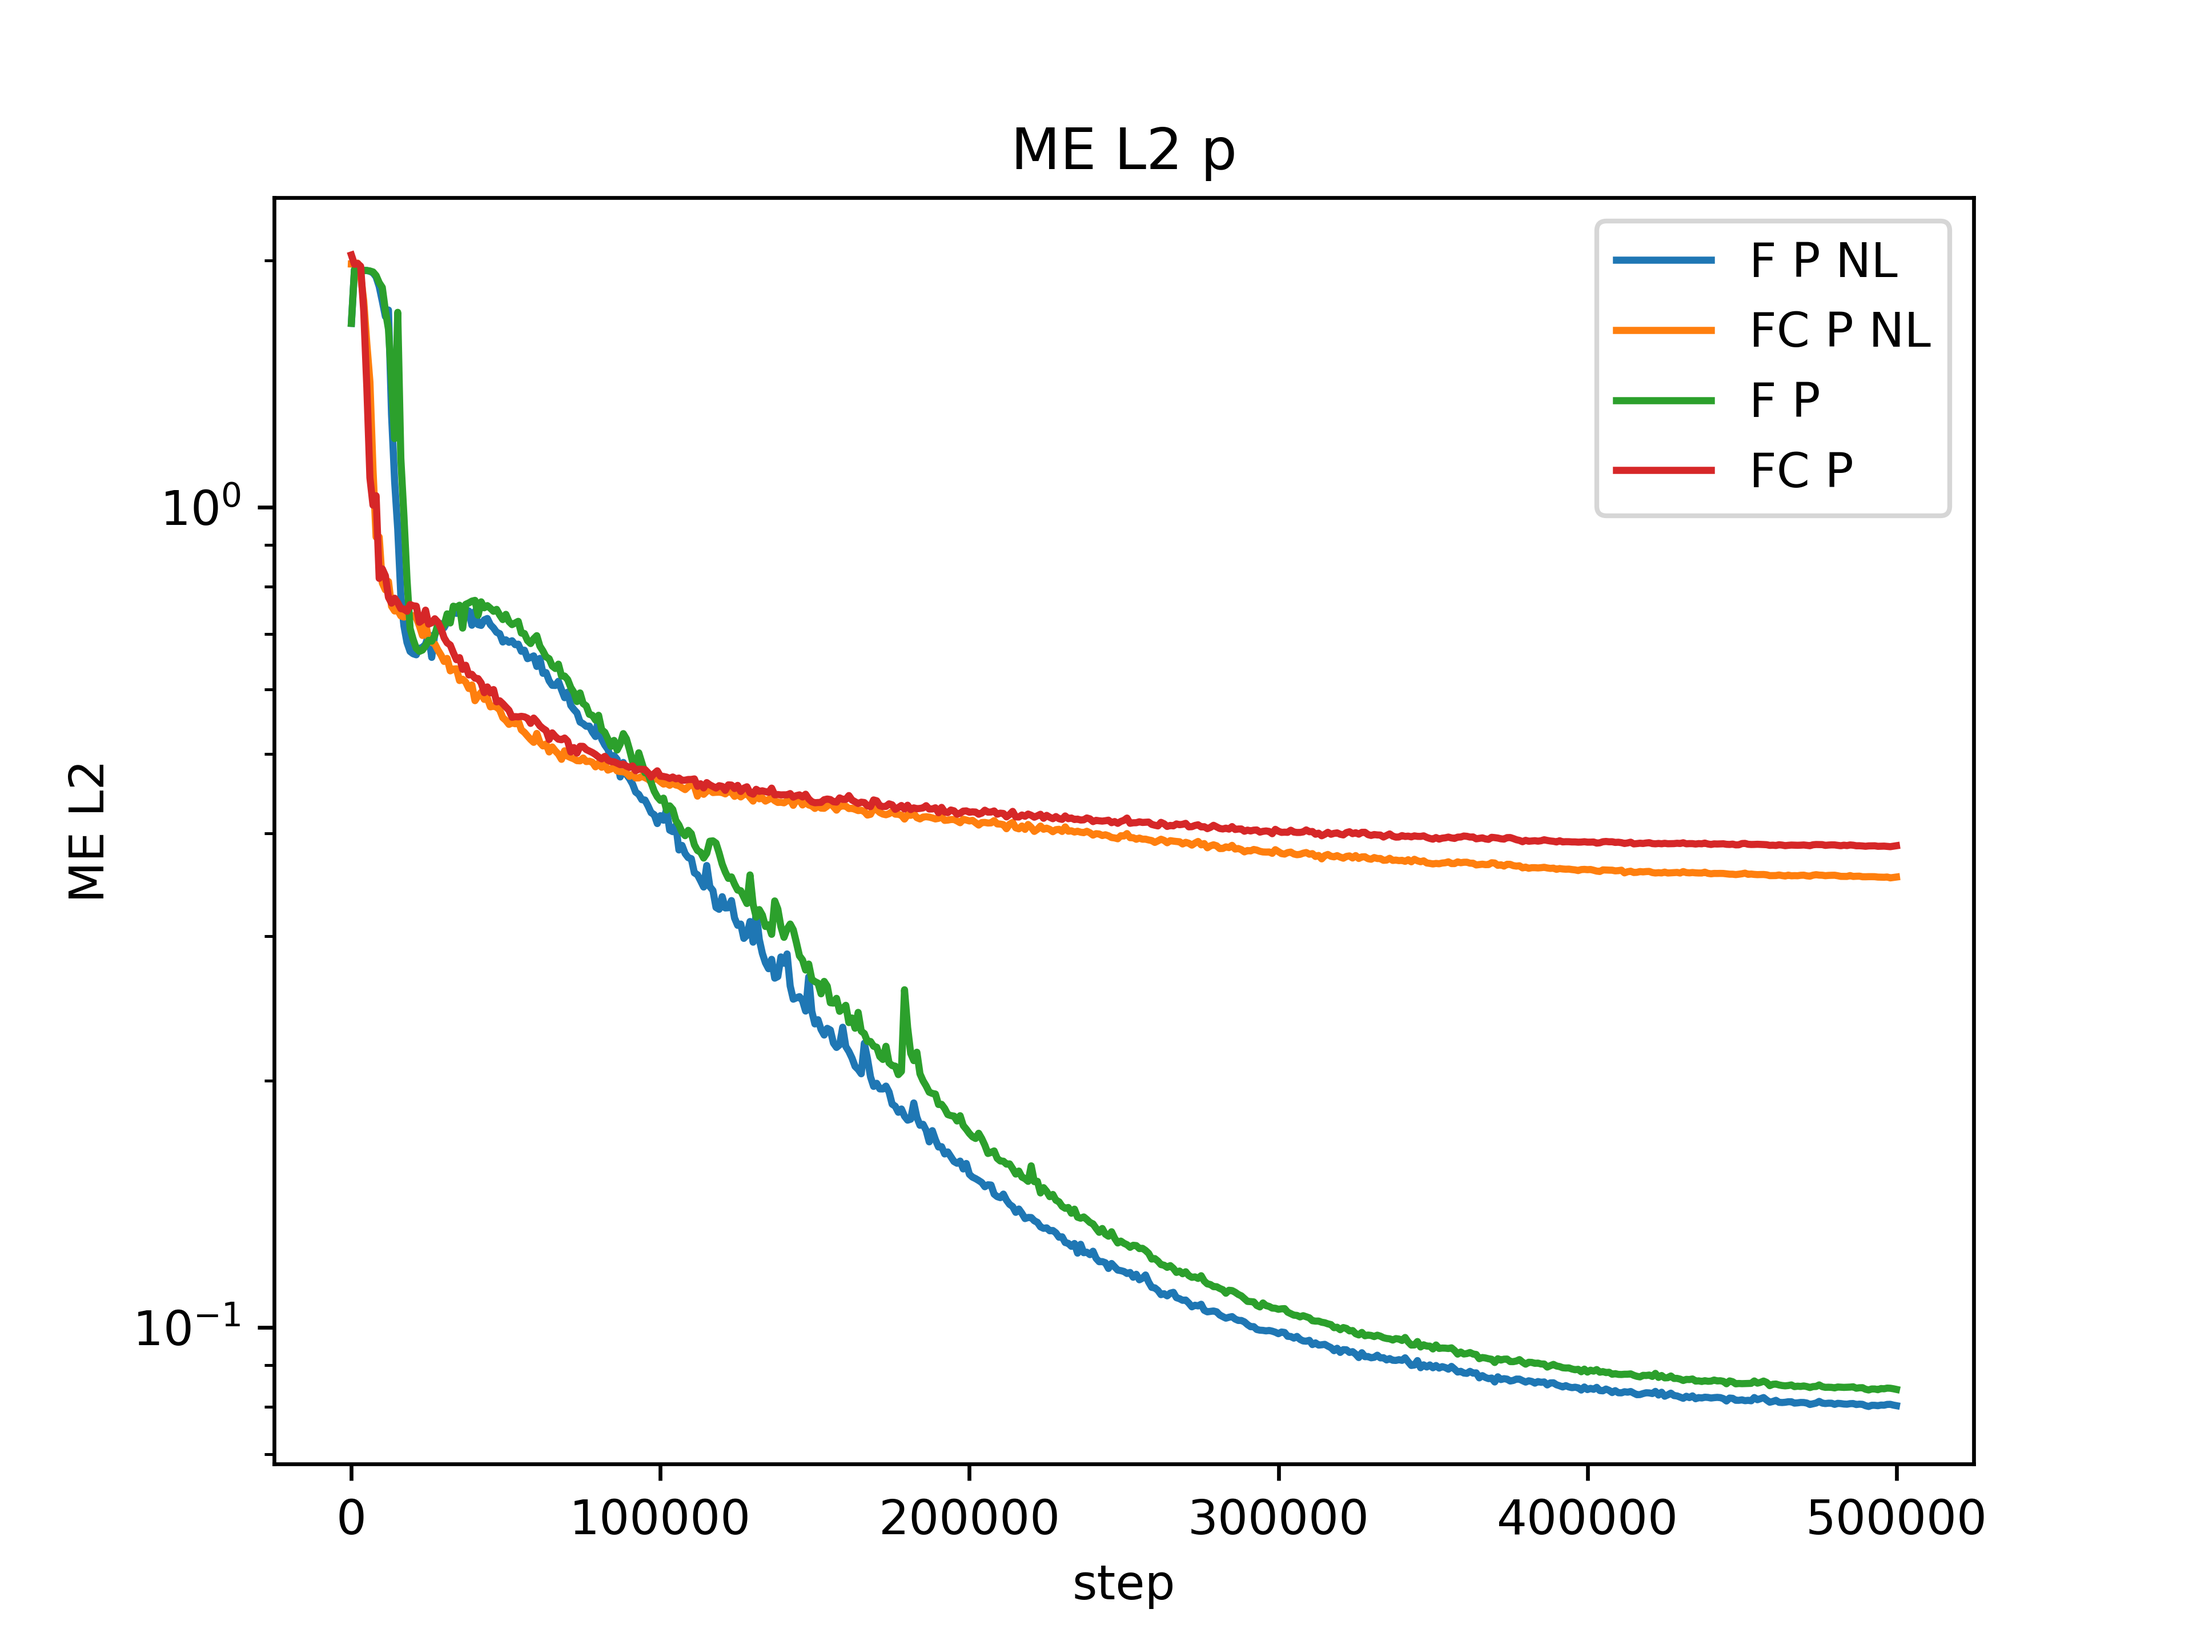
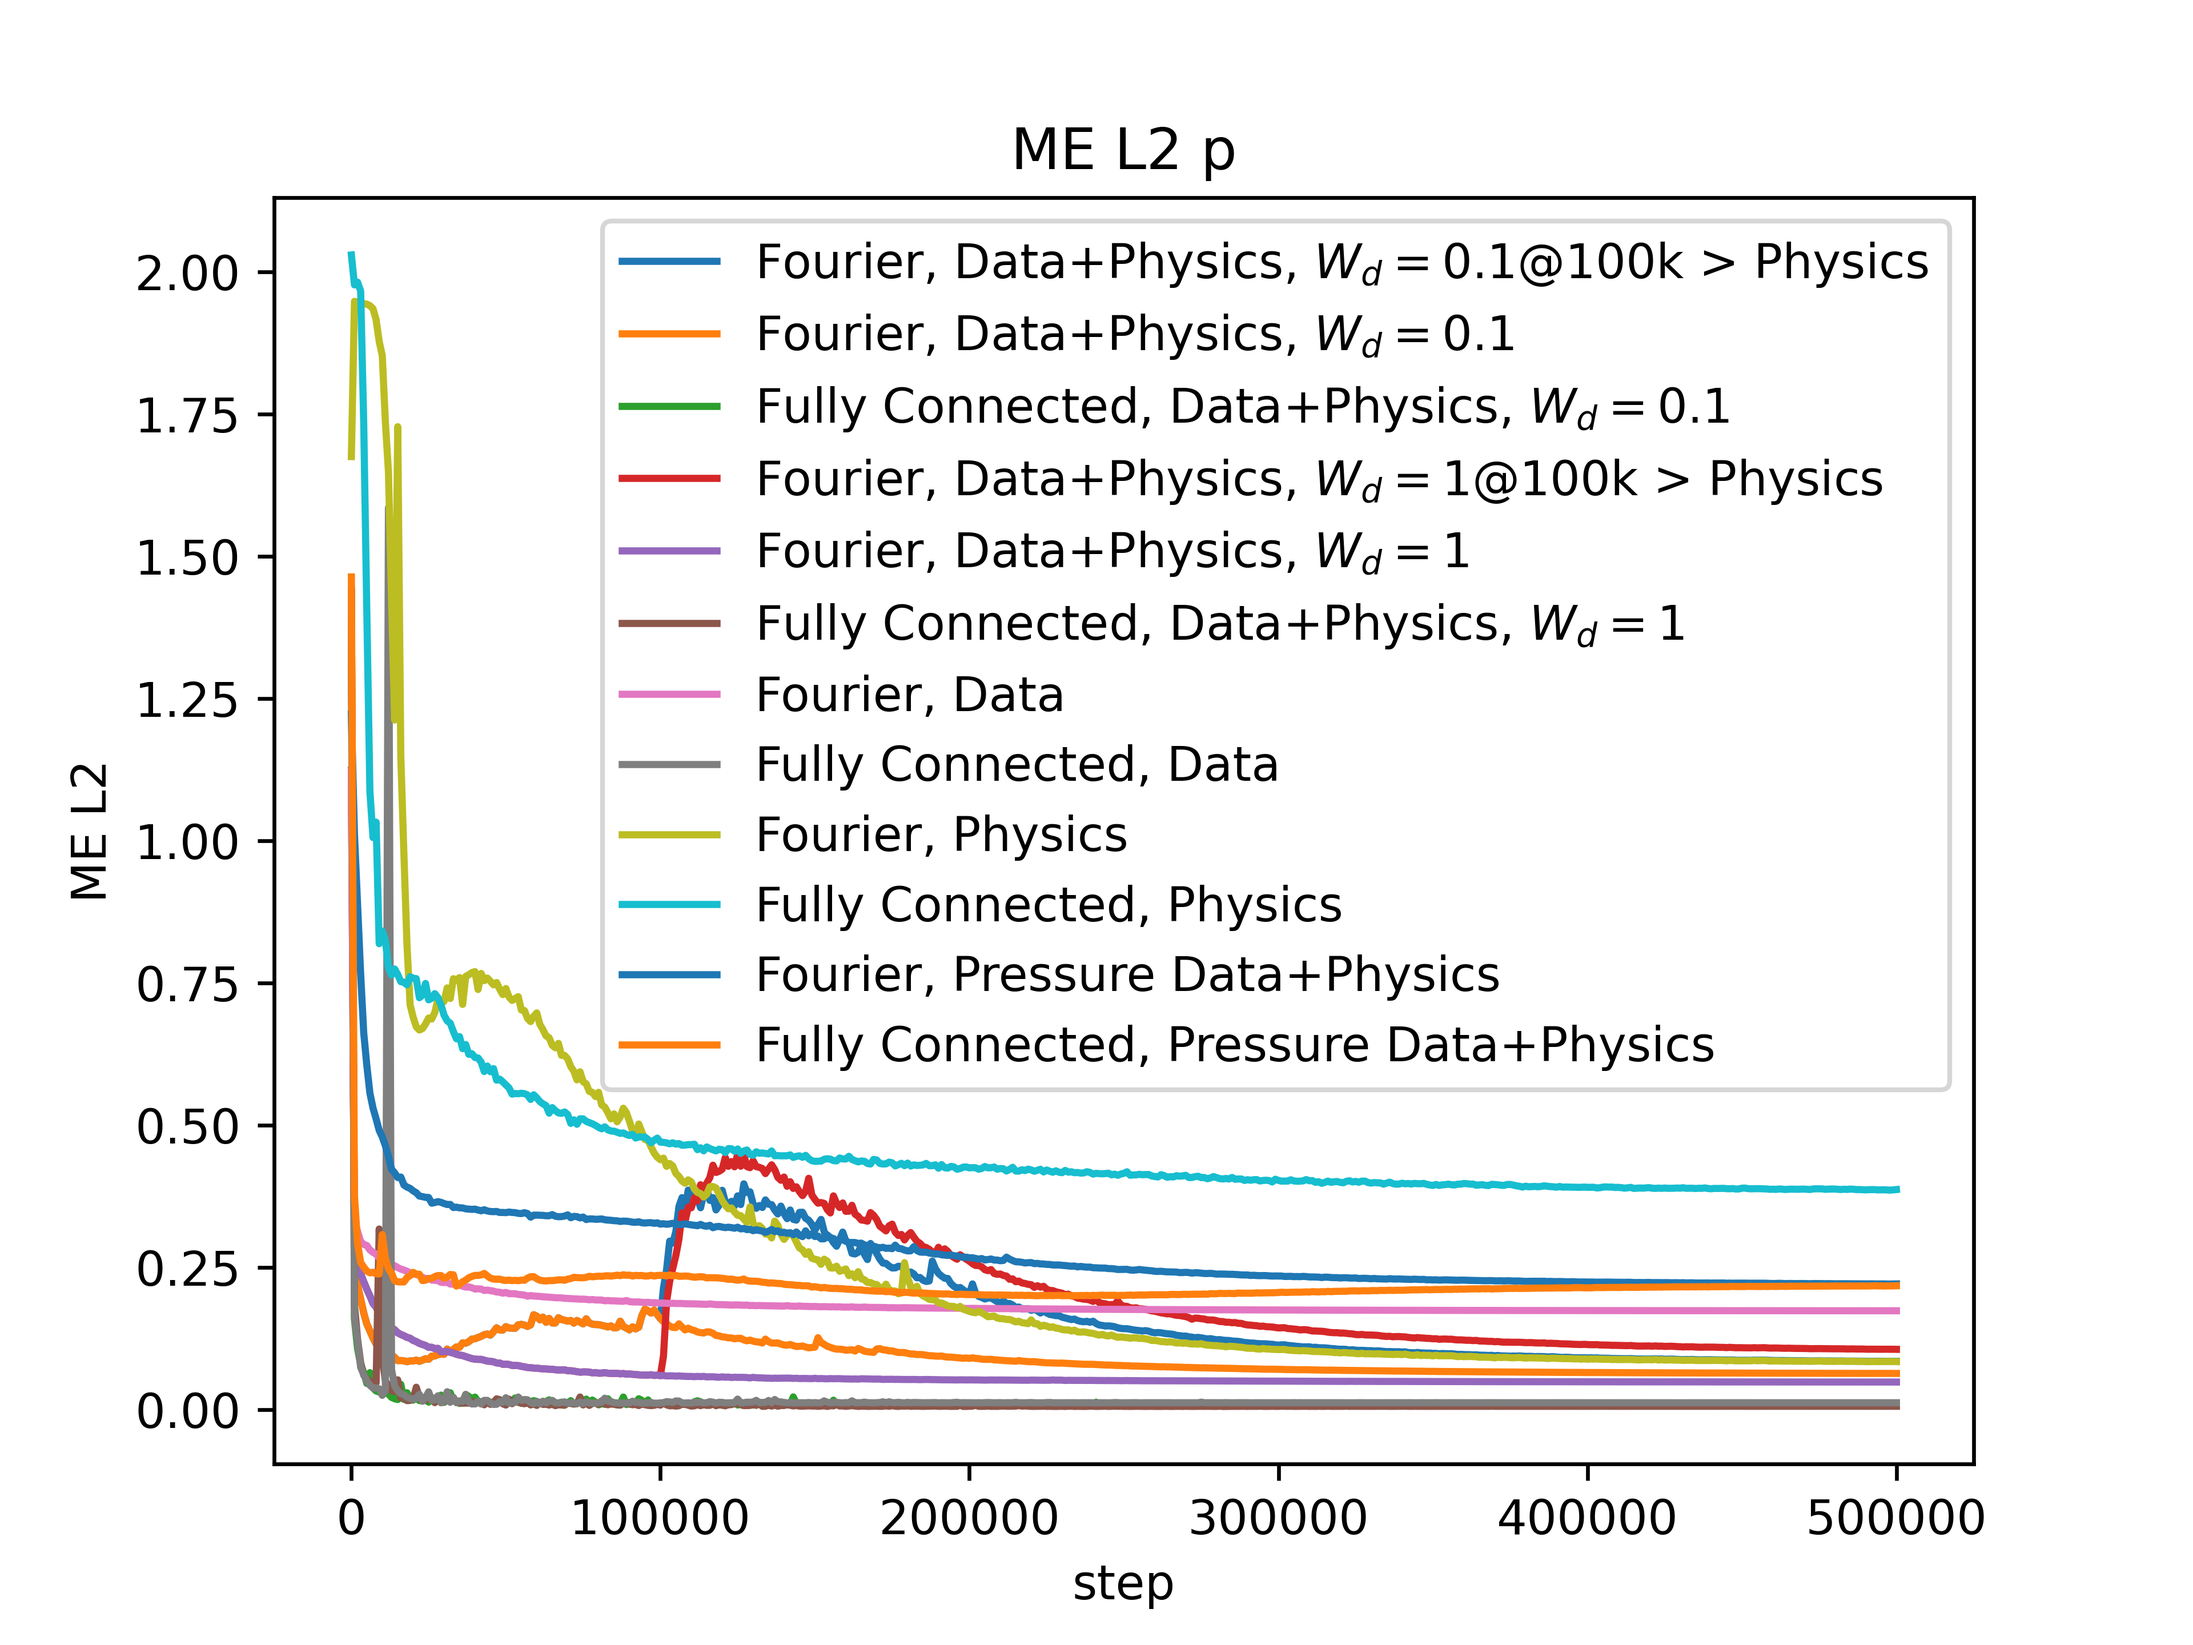
post

diff --git a/tfL2ToPlt.py b/tfL2ToPlt.py
@@ -9,15 +9,17 @@ from shortNames import shortNameDict
 
 
 resultsFilePath="./resultsL2.csv"
-outputsPath="./outputs/fwdFacingStep/"
+outputsPath="./outputs/fwdFacingStep_fl/"
 validatorSkip = ["DP5","DP36","DP79","DP86"] # skip data points
 # validatorSkip = [] # skip data points
 dirSkip = [".hydra", "init", "vtp", "initFC"]
 
-models = listdir(outputsPath)
-models.sort()
+# models = listdir(outputsPath)
+# models.sort()
 
-models = ["physicsOnlynwlnshr@500k", "physicsOnlyFCnwlnshr@500k", "physicsOnly@500k", "physicsOnlyFC@500k"]
+models = ["dataOnly1800FC@500k", "dataOnly1800@500k", "physicsOnlyFC@500k", "physicsOnly@500k"]
+# models = ["data1800PlusPhysicsLambda1FC@500k", "data1800PlusPhysicsLambda1@500k", "data1800PlusPhysicsLambda01FC@500k", "data1800PlusPhysicsLambda01@500k"]
+# models = ["pressureDataPlusPhysicsLambda1FC@500k", "pressureDataPlusPhysicsLambda1@500k"]
 
 with open(resultsFilePath, "w") as resultsFile:
     writer = csv.writer(resultsFile, delimiter=",")
@@ -35,7 +37,7 @@ with open(resultsFilePath, "w") as resultsFile:
     plt.title("ME L2 p")
     
     for model in models:
-        if model in dirSkip or "100k" in model.split("@")[-1] or "300k" in model.split("@")[-1]:
+        if model in dirSkip or "100k" in model.split("@")[-1] or "300k" in model.split("@")[-1] or "300k" in model.split("@")[-2]:
         # if model in dirSkip or "100k" in model.split("@")[-1] or "300k" in model.split("@")[-1]:
         # if model in dirSkip:
             # print("skipping ", model)
@@ -99,7 +101,10 @@ with open(resultsFilePath, "w") as resultsFile:
             label = shortNameDict[modelStrSplit[0]] #+ "@" + modelStrSplit[-1]
         
         plt.figure(1)
+        # ax = plt.subplot(111)
         plt.plot(steps, meanL2u, label=label)
+        # ax.plot(steps, meanL2u, label=label)
+        # ax.legend(bbox_to_anchor=(2, 2))
         plt.figure(2)
         plt.plot(steps, meanL2v, label=label)
         plt.figure(3)
@@ -108,7 +113,7 @@ with open(resultsFilePath, "w") as resultsFile:
     for i in range(1,4):
         plt.figure(i)
         plt.legend()
-        plt.yscale("log")
+        # plt.yscale("log")
         plt.xlabel("step")
         plt.ylabel("ME L2")
     

diff --git a/shortNames.py b/shortNames.py
@@ -1,19 +1,33 @@
+# shortNameDict = {
+#     "data1800PlusPhysicsLambda1": "F D+P $W_d=1$",
+#     # "data1800PlusPhysicsLambda1": "D+P_L1",
+#     "data1800PlusPhysicsLambda01": "F D+P $W_d=0.1$",
+#     # "data1800PlusPhysicsLambda01": "D+P_L0.1",
+#     "dataOnly1800": "Fourier D",
+#     "dataOnly1800FC": "FC D",
+#     "physicsOnly": "F P",
+#     "physicsOnlyFC": "FC P",
+#     "pressureDataPlusPhysicsLambda1": "F PD+P",
+#     "pressureDataPlusPhysicsLambda1FC": "FC PD+P",
+#     "data1800PlusPhysicsLambda1FC" : "FC D+P $W_d=1$",
+#     "data1800PlusPhysicsLambda01FC" : "FC D+P $W_d=0.1$",
+#     "physicsOnlynwlnshr": "F P NL", 
+#     "physicsOnlyFCnwlnshr": "FC P NL", 
+#     "2pO": " > P "
+# }
+
 shortNameDict = {
-    "data1800PlusPhysicsLambda1": "F D+P $W_d=1$",
-    # "data1800PlusPhysicsLambda1": "D+P_L1",
-    "data1800PlusPhysicsLambda01": "F D+P $W_d=0.1$",
-    # "data1800PlusPhysicsLambda01": "D+P_L0.1",
-    "dataOnly1800": "F D",
-    "dataOnly1800FC": "FC D",
-    "physicsOnly": "F P",
-    "physicsOnlyFC": "FC P",
-    "pressureDataPlusPhysicsLambda1": "F PD+P",
-    "pressureDataPlusPhysicsLambda1FC": "FC PD+P",
-    "data1800PlusPhysicsLambda1FC" : "FC D+P $W_d=1$",
-    "data1800PlusPhysicsLambda01FC" : "FC D+P $W_d=0.1$",
-    "physicsOnlynwlnshr": "F P NL", 
-    "physicsOnlyFCnwlnshr": "FC P NL", 
-    "2pO": " > P "
+    "data1800PlusPhysicsLambda1": "Fourier, Data+Physics, $W_d=1$",
+    "data1800PlusPhysicsLambda01": "Fourier, Data+Physics, $W_d=0.1$",
+    "dataOnly1800": "Fourier, Data",
+    "dataOnly1800FC": "Fully Connected, Data",
+    "physicsOnly": "Fourier, Physics",
+    "physicsOnlyFC": "Fully Connected, Physics",
+    "pressureDataPlusPhysicsLambda1": "Fourier, Pressure Data+Physics",
+    "pressureDataPlusPhysicsLambda1FC": "Fully Connected, Pressure Data+Physics",
+    "data1800PlusPhysicsLambda1FC" : "Fully Connected, Data+Physics, $W_d=1$",
+    "data1800PlusPhysicsLambda01FC" : "Fully Connected, Data+Physics, $W_d=0.1$",
+    "2pO": " > Physics "
 }
 
 def name2data(name):

diff --git a/optimization.py b/optimization.py
@@ -114,7 +114,7 @@ models.sort()
 print(models)
 
 for model in models:
-    if model in dirSkip or "100k" in model.split("@")[-1] or "300k" in model.split("@")[-1]:
+    if model in dirSkip or "100k" in model.split("@")[-1] or "300k" in model.split("@")[-1] or 'FC' not in model:
     # if model in dirSkip:
         print("skipping ", model)
         continue
